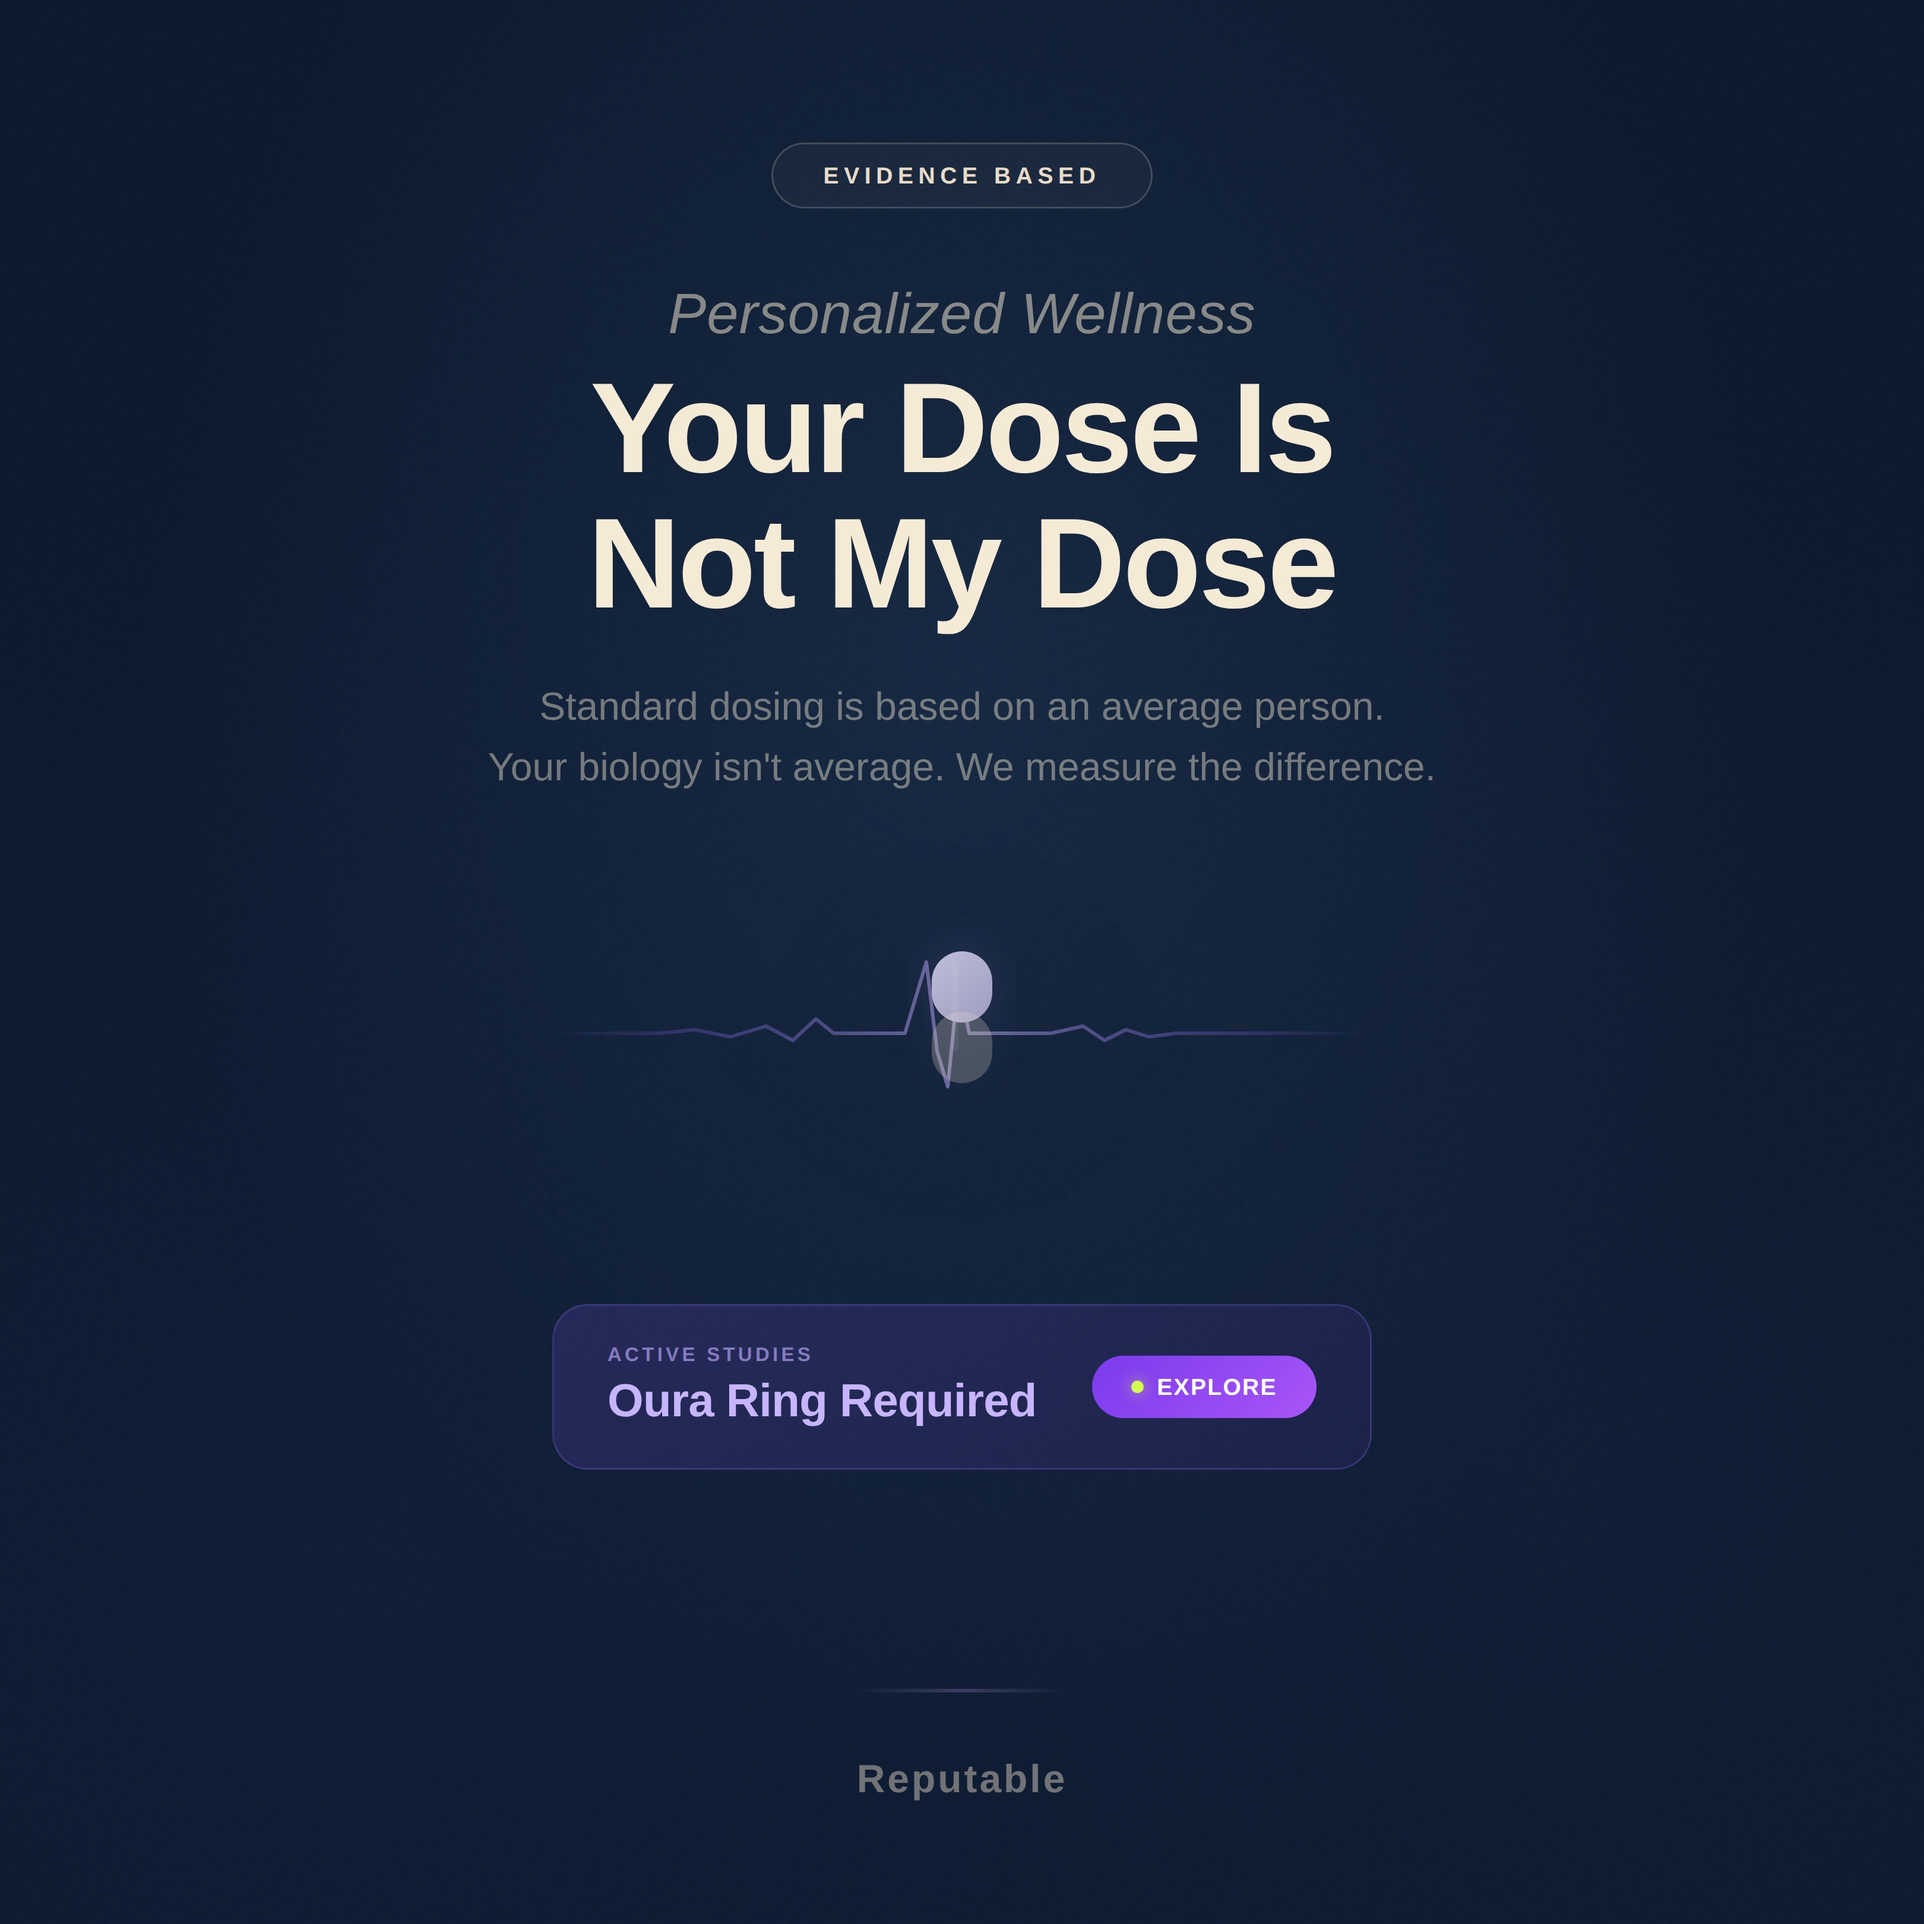
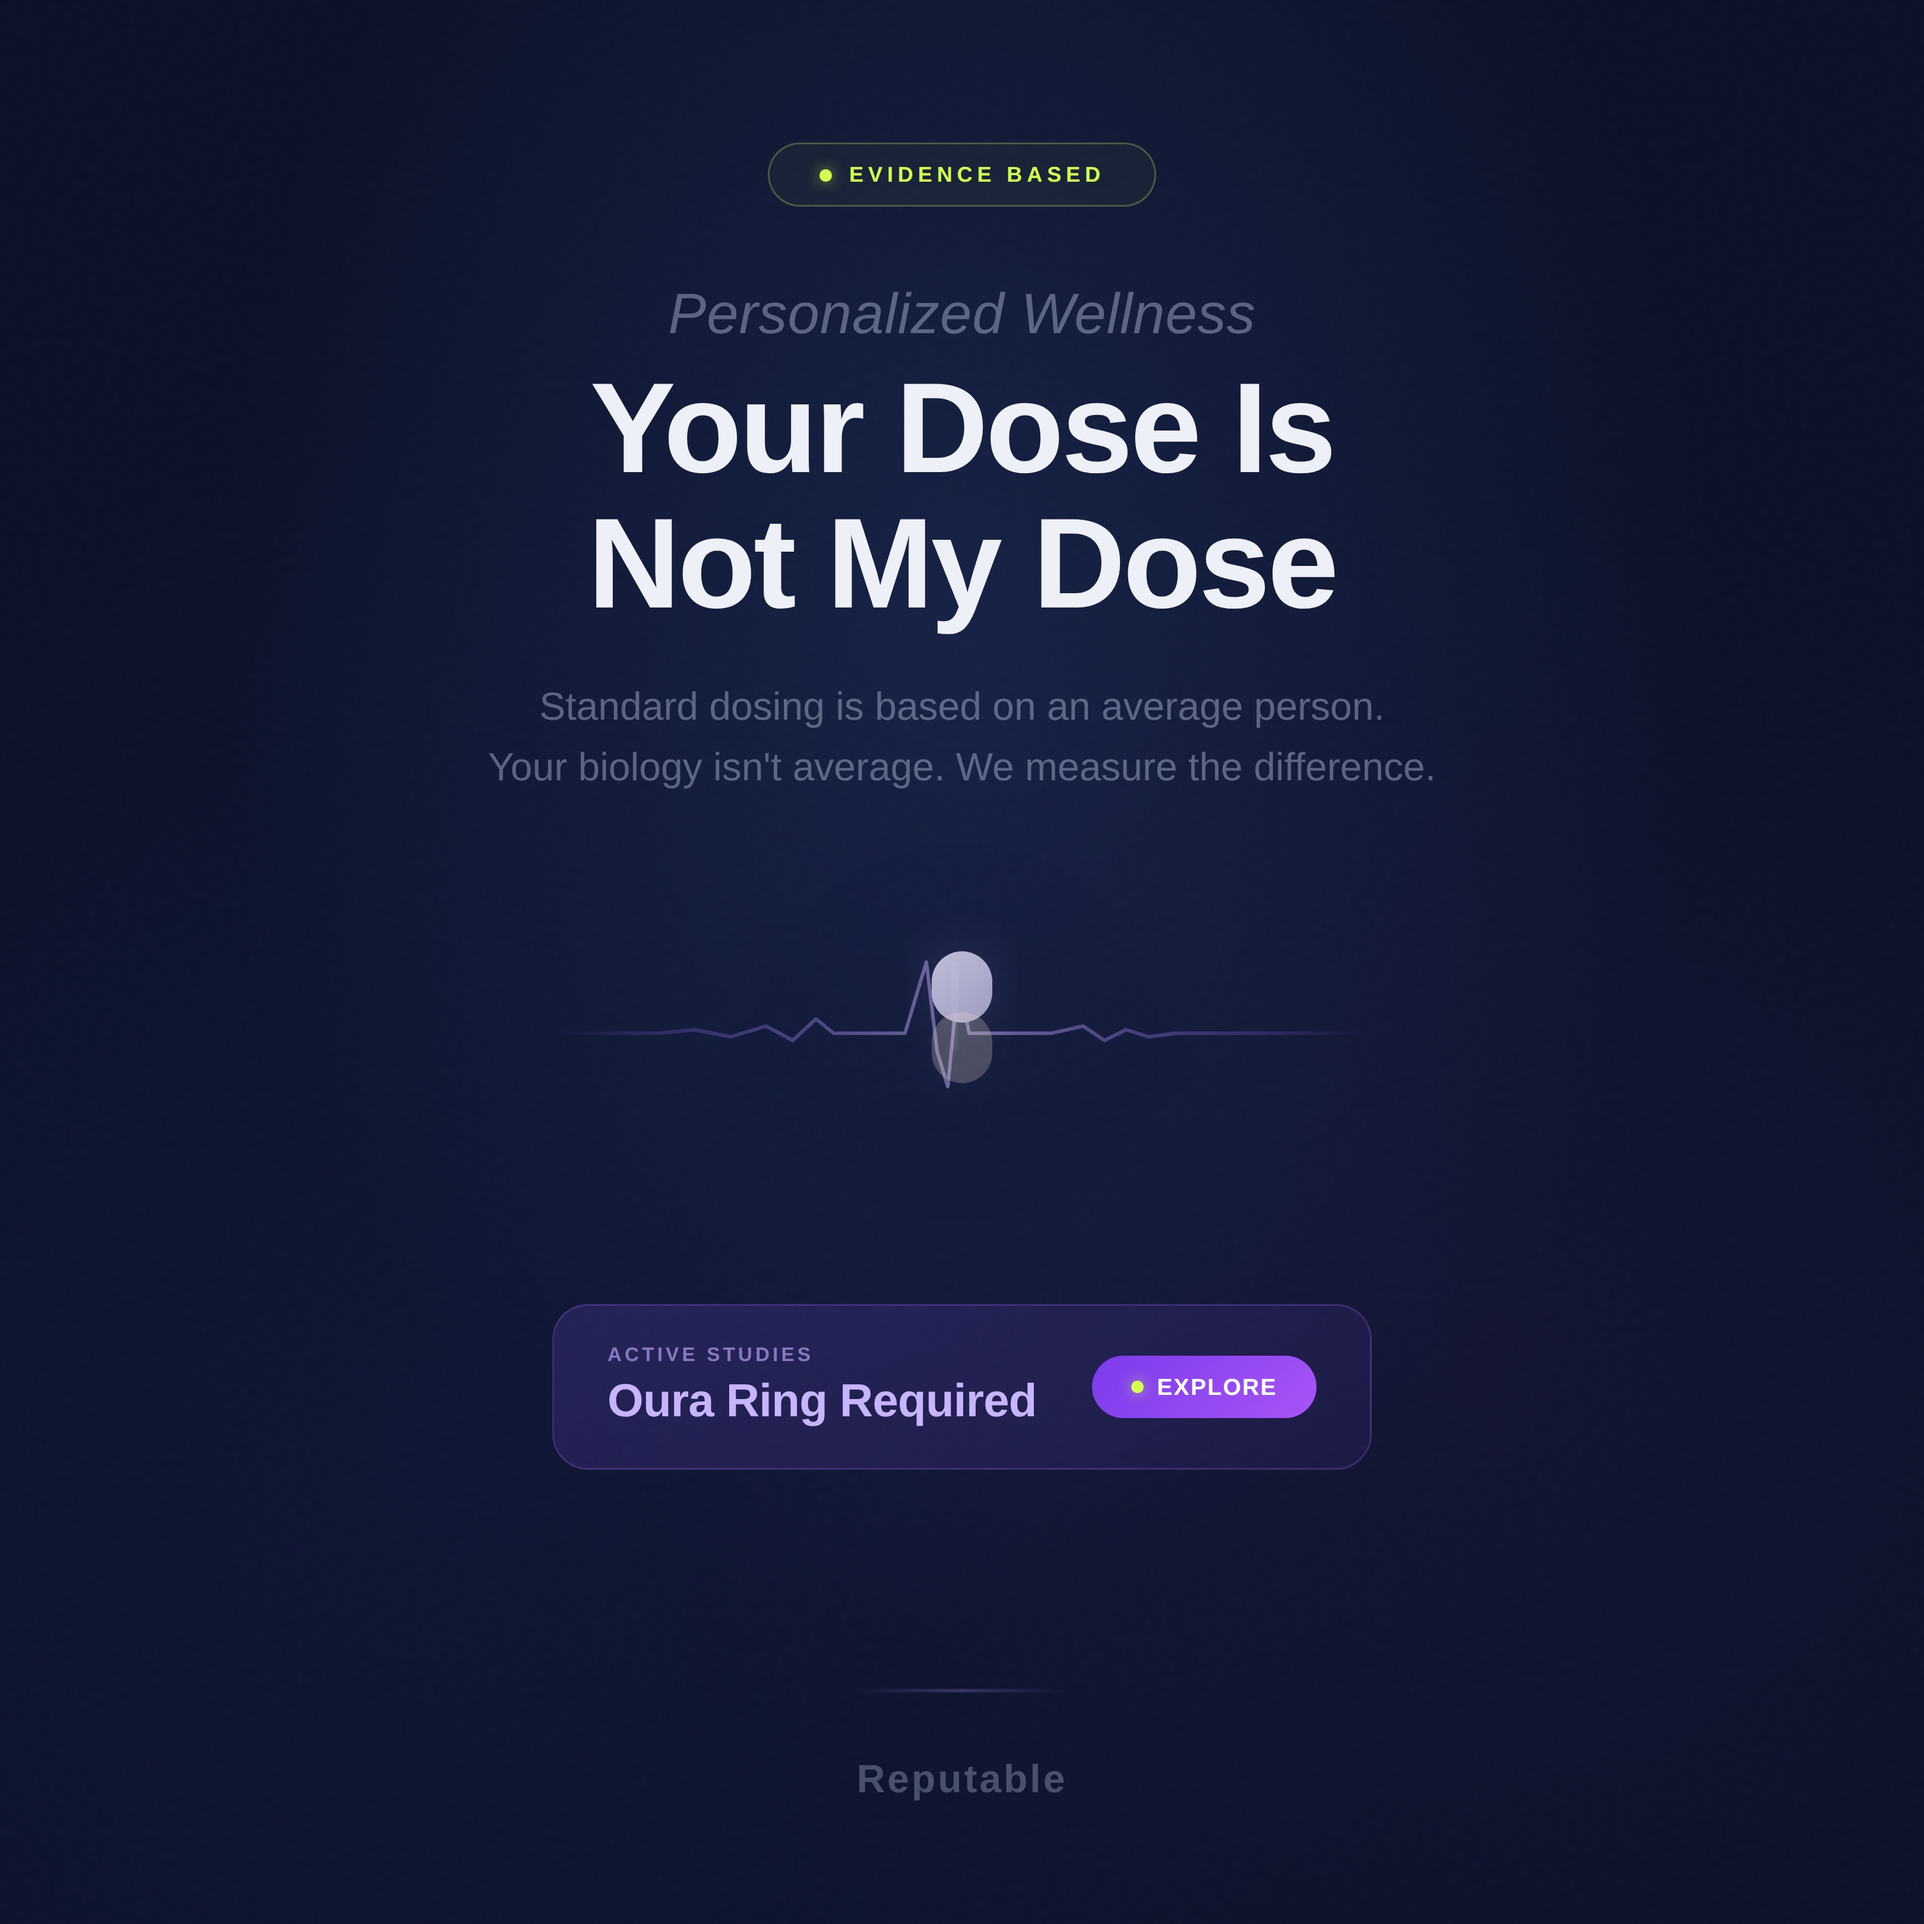
Switch personalized dosing post to dark mode palette
Deep indigo background, cool blue-silver text, green accent badge
with live dot — matching the melatonin study aesthetic instead of
the warm cream reading ritual palette.

https://claude.ai/code/session_01TfrrBTyPYsf3Z7Zsrx7aQ5

diff --git a/personalized-dosing-post.html b/personalized-dosing-post.html
@@ -11,7 +11,7 @@
     width: 1080px;
     height: 1080px;
     overflow: hidden;
-    background: #0c1a2e;
+    background: #0c1228;
     font-family: -apple-system, BlinkMacSystemFont, 'Segoe UI', Roboto, 'Helvetica Neue', Arial, sans-serif;
     -webkit-font-smoothing: antialiased;
   }
@@ -21,10 +21,10 @@
     height: 1080px;
     position: relative;
     background:
-      radial-gradient(ellipse at 50% 35%, rgba(30, 50, 80, 0.6) 0%, transparent 60%),
-      radial-gradient(ellipse at 20% 80%, rgba(20, 35, 65, 0.4) 0%, transparent 50%),
-      radial-gradient(ellipse at 80% 75%, rgba(25, 40, 70, 0.3) 0%, transparent 50%),
-      #0c1a2e;
+      radial-gradient(ellipse at 50% 32%, rgba(30, 45, 90, 0.6) 0%, transparent 55%),
+      radial-gradient(ellipse at 25% 75%, rgba(20, 30, 70, 0.4) 0%, transparent 50%),
+      radial-gradient(ellipse at 75% 70%, rgba(60, 40, 110, 0.15) 0%, transparent 45%),
+      #0c1228;
     overflow: hidden;
   }
 
@@ -48,15 +48,26 @@
   }
   .top-badge span {
     display: inline-block;
-    font-size: 13px;
+    font-size: 12px;
     font-weight: 800;
     letter-spacing: 0.22em;
     text-transform: uppercase;
-    color: #e8dcc8;
+    color: #d4ff50;
     padding: 10px 28px;
-    border: 1.5px solid rgba(232,220,200,0.2);
+    border: 1.5px solid rgba(212,255,80,0.25);
     border-radius: 100px;
-    background: rgba(232,220,200,0.04);
+    background: rgba(212,255,80,0.04);
+  }
+  .top-badge span::before {
+    content: '';
+    display: inline-block;
+    width: 7px;
+    height: 7px;
+    border-radius: 50%;
+    background: #d4ff50;
+    box-shadow: 0 0 8px rgba(212,255,80,0.6);
+    margin-right: 10px;
+    vertical-align: middle;
   }
 
   /* ── Study label ────────────────────────────────── */
@@ -69,7 +80,7 @@
     font-size: 32px;
     font-weight: 400;
     font-style: italic;
-    color: rgba(232,220,200,0.55);
+    color: rgba(180,190,220,0.45);
     letter-spacing: 0.01em;
   }
 
@@ -82,7 +93,7 @@
     text-align: center;
     font-size: 72px;
     font-weight: 800;
-    color: #f5ead6;
+    color: #eef0f8;
     line-height: 1.05;
     letter-spacing: -0.02em;
   }
@@ -96,7 +107,7 @@
     text-align: center;
     font-size: 22px;
     font-weight: 400;
-    color: rgba(200,195,180,0.55);
+    color: rgba(180,190,220,0.45);
     line-height: 1.55;
   }
 
@@ -179,7 +190,7 @@
     transform: translateX(-50%);
     width: 120px;
     height: 2px;
-    background: linear-gradient(90deg, transparent, rgba(140,120,180,0.35), transparent);
+    background: linear-gradient(90deg, transparent, rgba(140,120,200,0.3), transparent);
   }
 
   /* ── Brand footer ───────────────────────────────── */
@@ -191,7 +202,7 @@
     text-align: center;
     font-size: 22px;
     font-weight: 600;
-    color: rgba(232,220,200,0.45);
+    color: rgba(180,190,220,0.35);
     letter-spacing: 0.06em;
   }
 </style>
